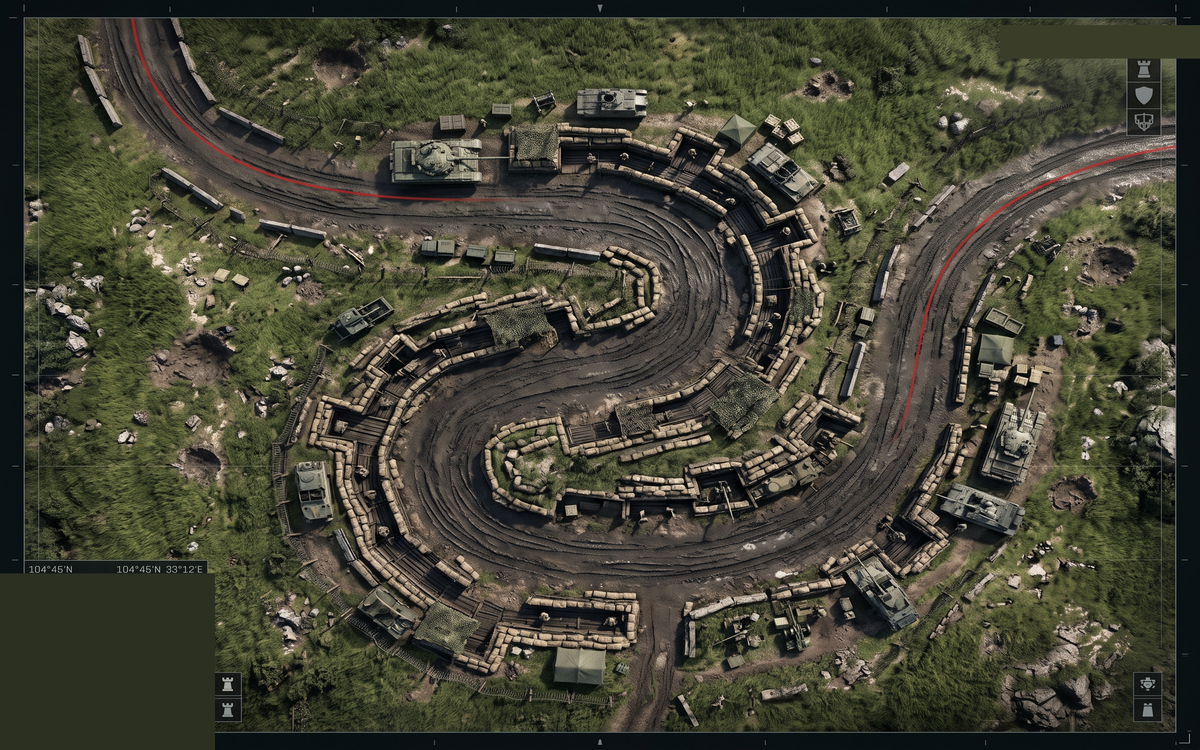
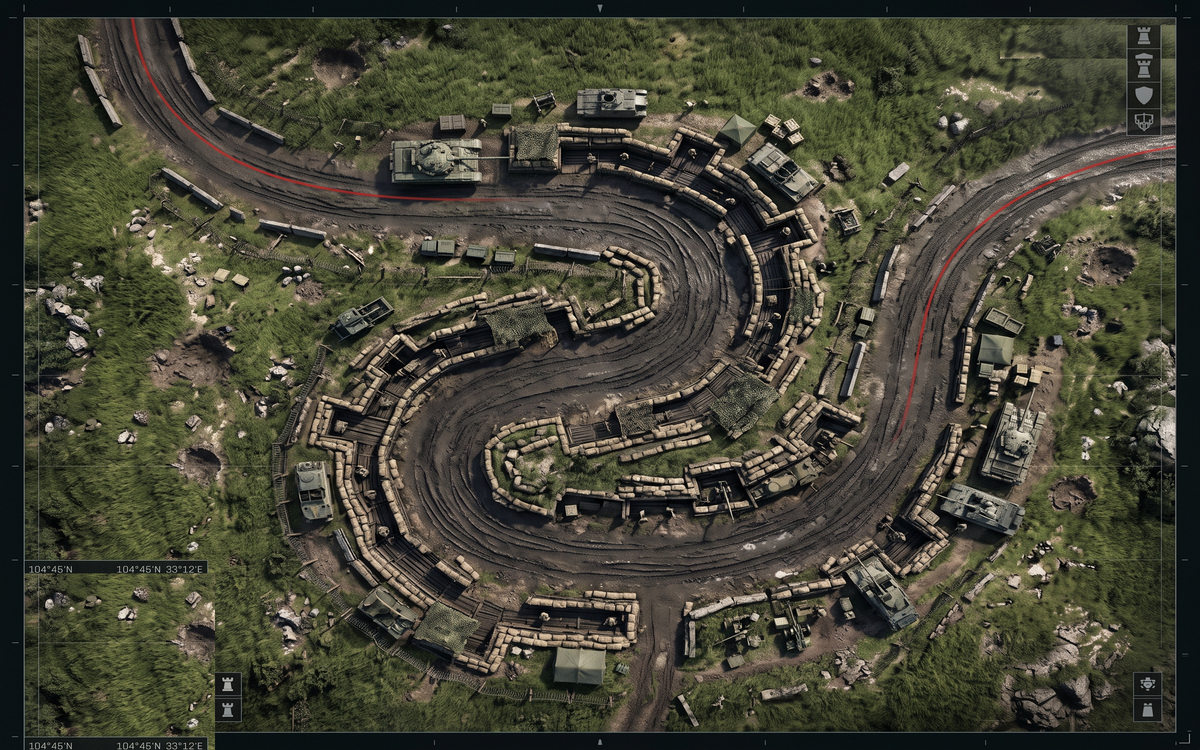
fix: tint player towers away from the map's greens, clone real texture over the old minimap/legend patches
Per user feedback: tower_basic (olive drab) and tower_double blended into
the map's own green/olive palette, making placed towers hard to spot.
Both are now tinted toward cooler steel-blue/grey tones via a new
tint_toward() helper (generalized from the existing tint_red()).

Separately, the flat median-color fill used to erase the source map's
baked-in minimap and 'ENEMY PATH' legend read as an obvious solid block
once on screen. Replaced it with a real texture clone: copy the
same-size patch of genuine grass immediately adjacent to each box, which
reads as real terrain instead of a flat rectangle.

Changed region(s): [[0.0, 0.7667, 0.185, 1.0], [0.8325, 0.0307, 1.0, 0.092]]

diff --git a/tools/extract_assets.py b/tools/extract_assets.py
@@ -168,8 +168,38 @@ def extract_towers():
             # (angle=0 -> +x). The AA-2 Cyclone's twin barrels alone point
             # toward -x in the source sheet, so flip it here to match.
             keyed = keyed.transpose(Image.FLIP_LEFT_RIGHT)
+        if name == "tower_basic":
+            # Olive drab reads almost identically to the map's grass at
+            # this draw size -- nudge it toward a cool steel blue so the
+            # player's own towers don't camouflage into the terrain.
+            keyed = tint_toward(keyed, (95, 120, 150), strength=0.4)
+        if name == "tower_double":
+            # Already a cooler grey camo than the basic turret, so it needs
+            # a lighter push -- just enough to read as distinctly "steel"
+            # rather than "olive" next to the basic tower.
+            keyed = tint_toward(keyed, (150, 165, 180), strength=0.25)
         keyed = downscale(keyed)
         keyed.save(OUT / f"{name}.png")
+
+
+def tint_toward(im, target_rgb, strength=0.55):
+    """Blend an RGBA image's per-pixel gray value toward target_rgb, keeping
+    alpha untouched. Preserves shading/detail (each pixel keeps its own
+    brightness) while shifting the overall hue -- used both for the enemy
+    tank's rust-red recolor and for nudging the player towers' palettes
+    away from the map's own green/olive tones so they stay visible against
+    the terrain instead of blending into it."""
+    im = im.convert("RGBA")
+    arr = np.array(im).astype(float)
+    r, g, b, a = arr[..., 0], arr[..., 1], arr[..., 2], arr[..., 3]
+    gray = (r + g + b) / 3
+    tr, tg, tb = target_rgb
+    nr = gray + (tr - gray) * strength
+    ng = gray + (tg - gray) * strength
+    nb = gray + (tb - gray) * strength
+    out = np.stack([nr, ng, nb, a], axis=-1)
+    out = np.clip(out, 0, 255).astype(np.uint8)
+    return Image.fromarray(out, mode="RGBA")
 
 
 def tint_red(im, strength=0.55):
@@ -267,21 +297,32 @@ def extract_explosion():
 def extract_map():
     im = Image.open(ROOT / "mapa.jpg").convert("RGB")
     arr = np.array(im)
-    # paint over the baked-in "ENEMY PATH" legend and the corner minimap
-    # with nearby grass texture (median of an adjacent patch) so our own
-    # HUD/path drawing isn't fighting the source art. This stays opaque
-    # (map_bg.png has no alpha channel), so a flat fill is fine here.
-    def median_patch(x, y, w=15, h=15):
-        patch = arr[y:y + h, x:x + w].reshape(-1, 3)
-        return np.median(patch, axis=0).astype(np.uint8)
+    # Paint over the baked-in "ENEMY PATH" legend and the corner minimap so
+    # our own HUD/path drawing isn't fighting the source art. This stays
+    # opaque (map_bg.png has no alpha channel).
+    #
+    # A flat median-color fill (the original approach) reads as an obvious
+    # solid block once the map is on screen -- real grass has visible blade
+    # texture and tonal variation a single flat color can't fake. Instead,
+    # clone real texture: copy a same-size patch of genuine grass from
+    # directly adjacent to each box (so lighting/terrain matches) straight
+    # over it. Not a seamless blend, but a real photo patch reads as real
+    # terrain in a way a flat fill never does.
+    def clone_patch(dest_box, src_origin):
+        dx0, dy0, dx1, dy1 = dest_box
+        w, h = dx1 - dx0, dy1 - dy0
+        sx0, sy0 = src_origin
+        arr[dy0:dy1, dx0:dx1] = arr[sy0:sy0 + h, sx0:sx0 + w]
 
     legend_box = (2000, 60, 2400, 140)
-    col = median_patch(max(legend_box[0] - 60, 0), legend_box[1])
-    arr[legend_box[1]:legend_box[3], legend_box[0]:legend_box[2]] = col
+    # source: the same width/height strip directly below the legend box,
+    # which is open terrain in the source image
+    clone_patch(legend_box, (legend_box[0], legend_box[3]))
 
     minimap_box = (0, 1370, 430, 1792)
-    col = median_patch(50, max(minimap_box[1] - 80, 0))
-    arr[minimap_box[1]:minimap_box[3], minimap_box[0]:minimap_box[2]] = col
+    # source: the same width/height strip directly above the minimap box
+    lh = minimap_box[3] - minimap_box[1]
+    clone_patch(minimap_box, (minimap_box[0], minimap_box[1] - lh))
 
     out_img = Image.fromarray(arr)
     # drawMap() in game/js/map.js always draws this at exactly
